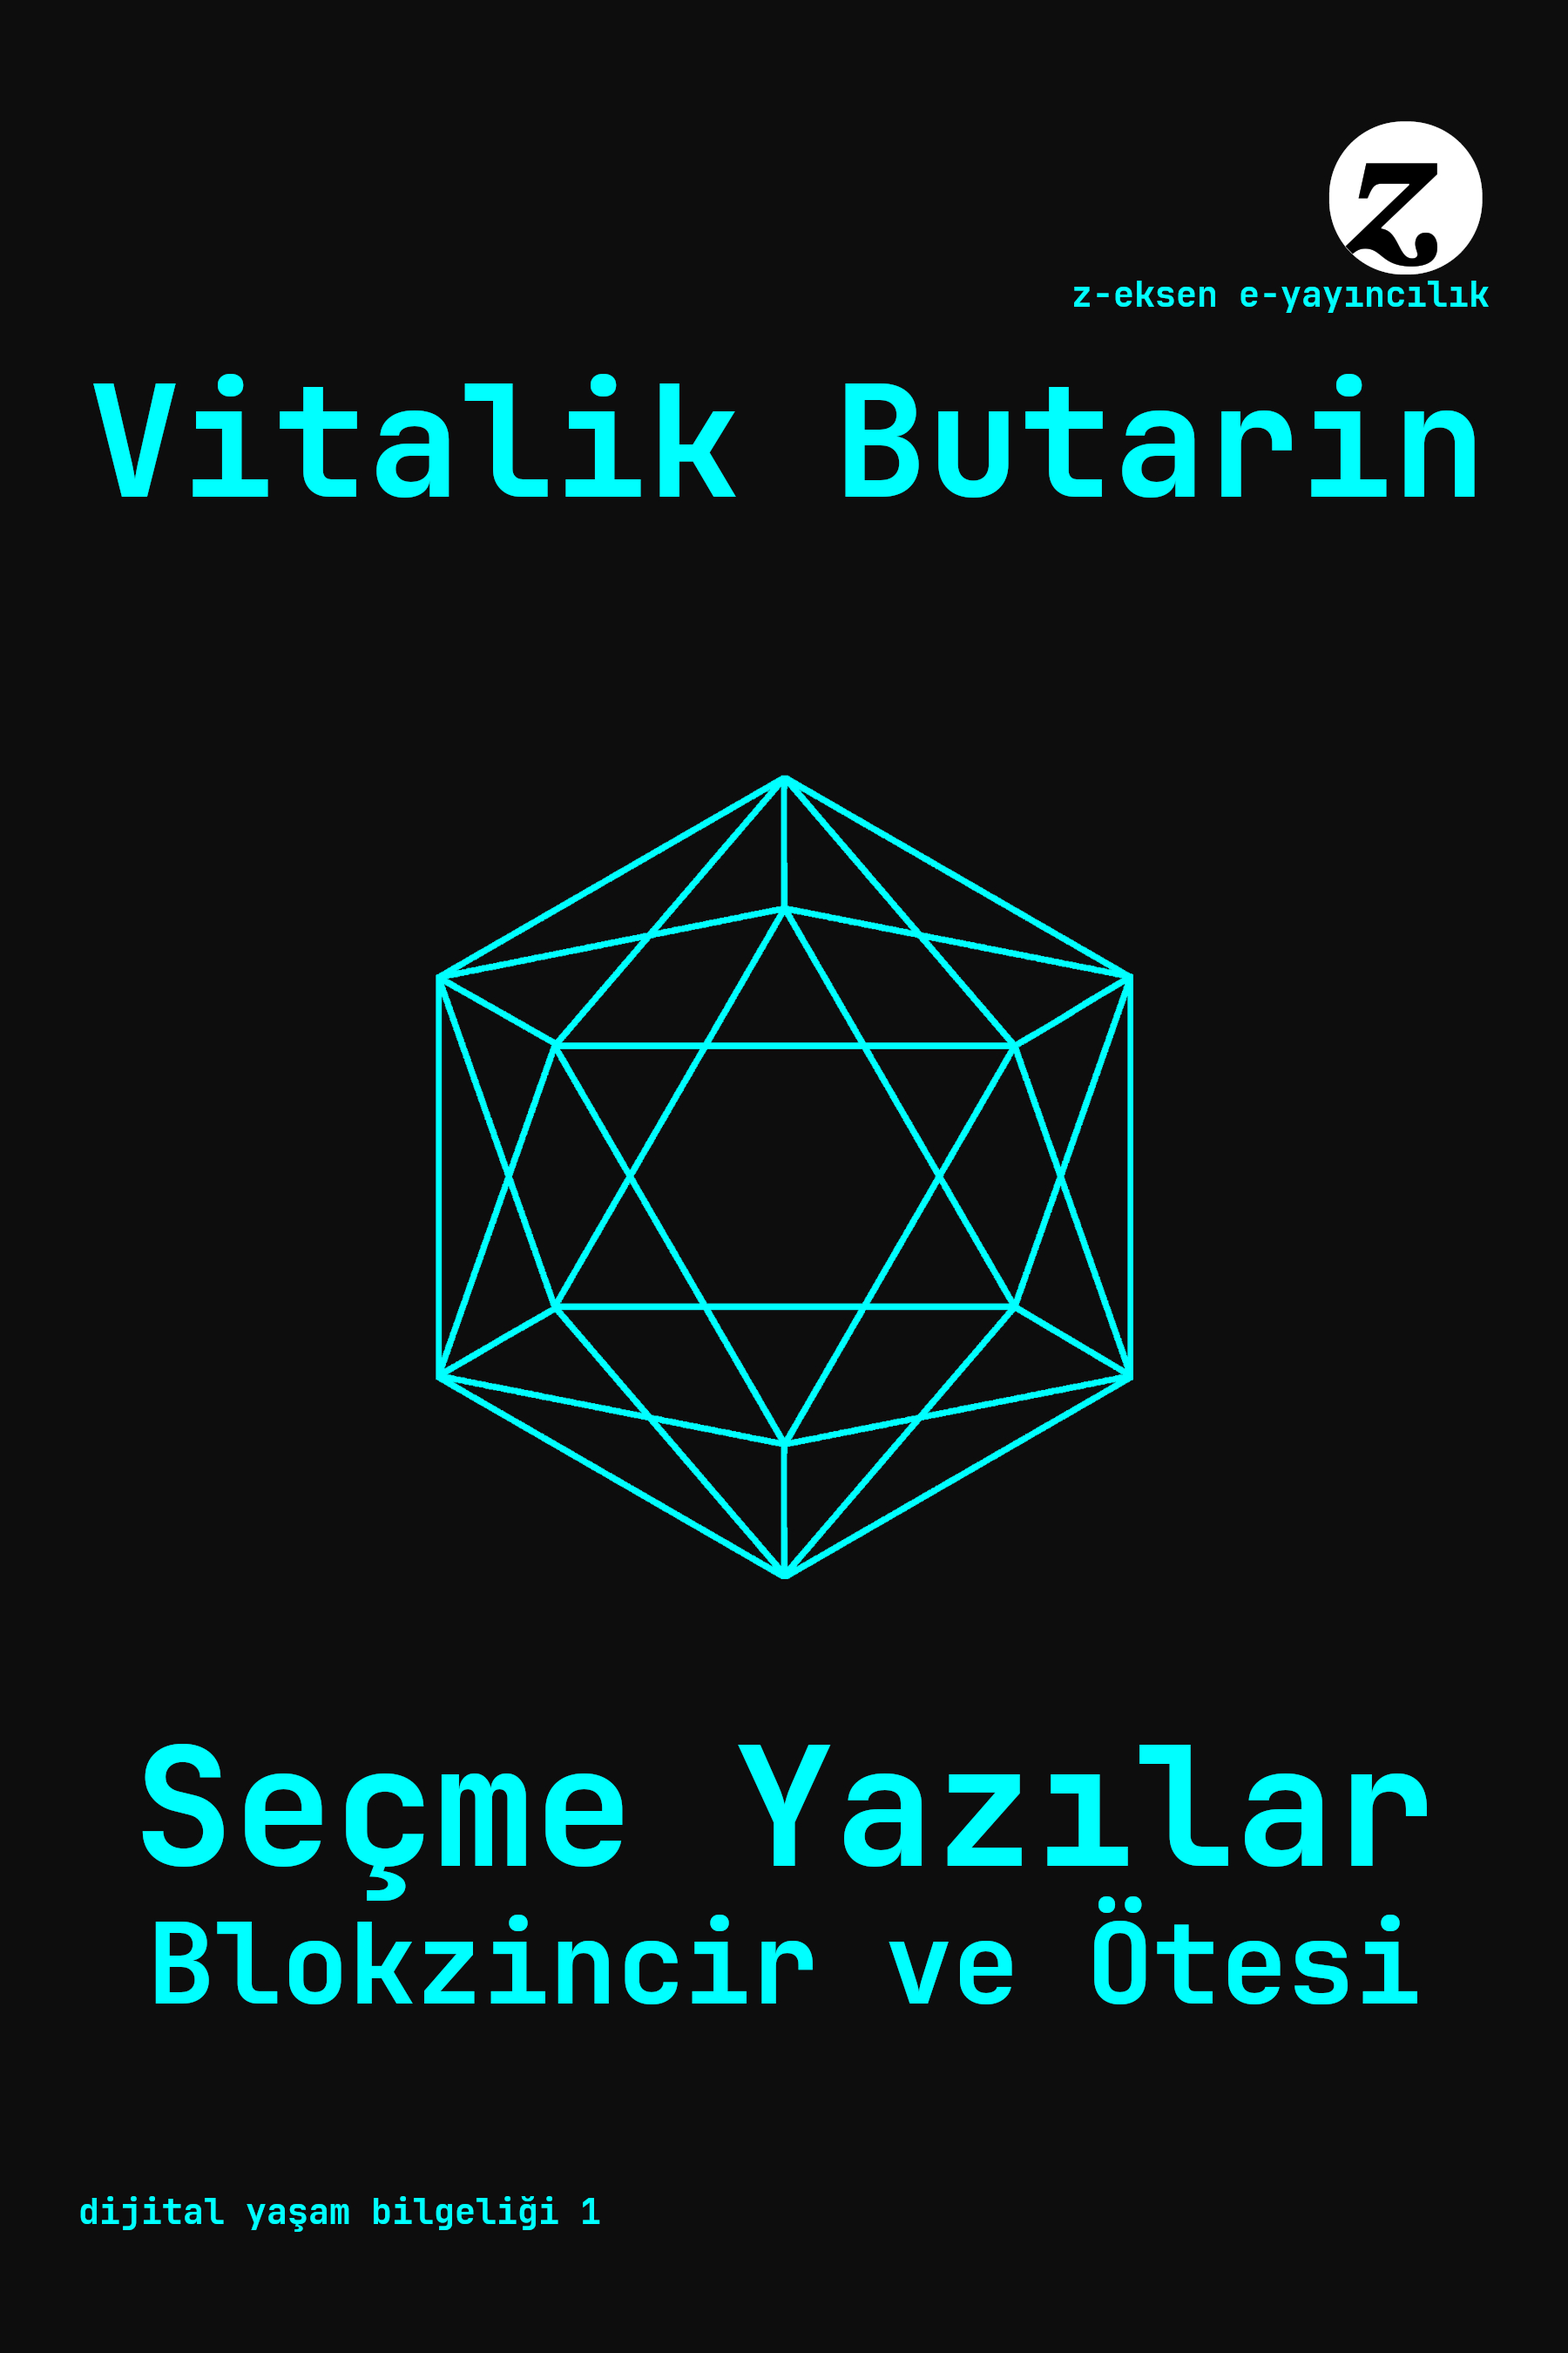
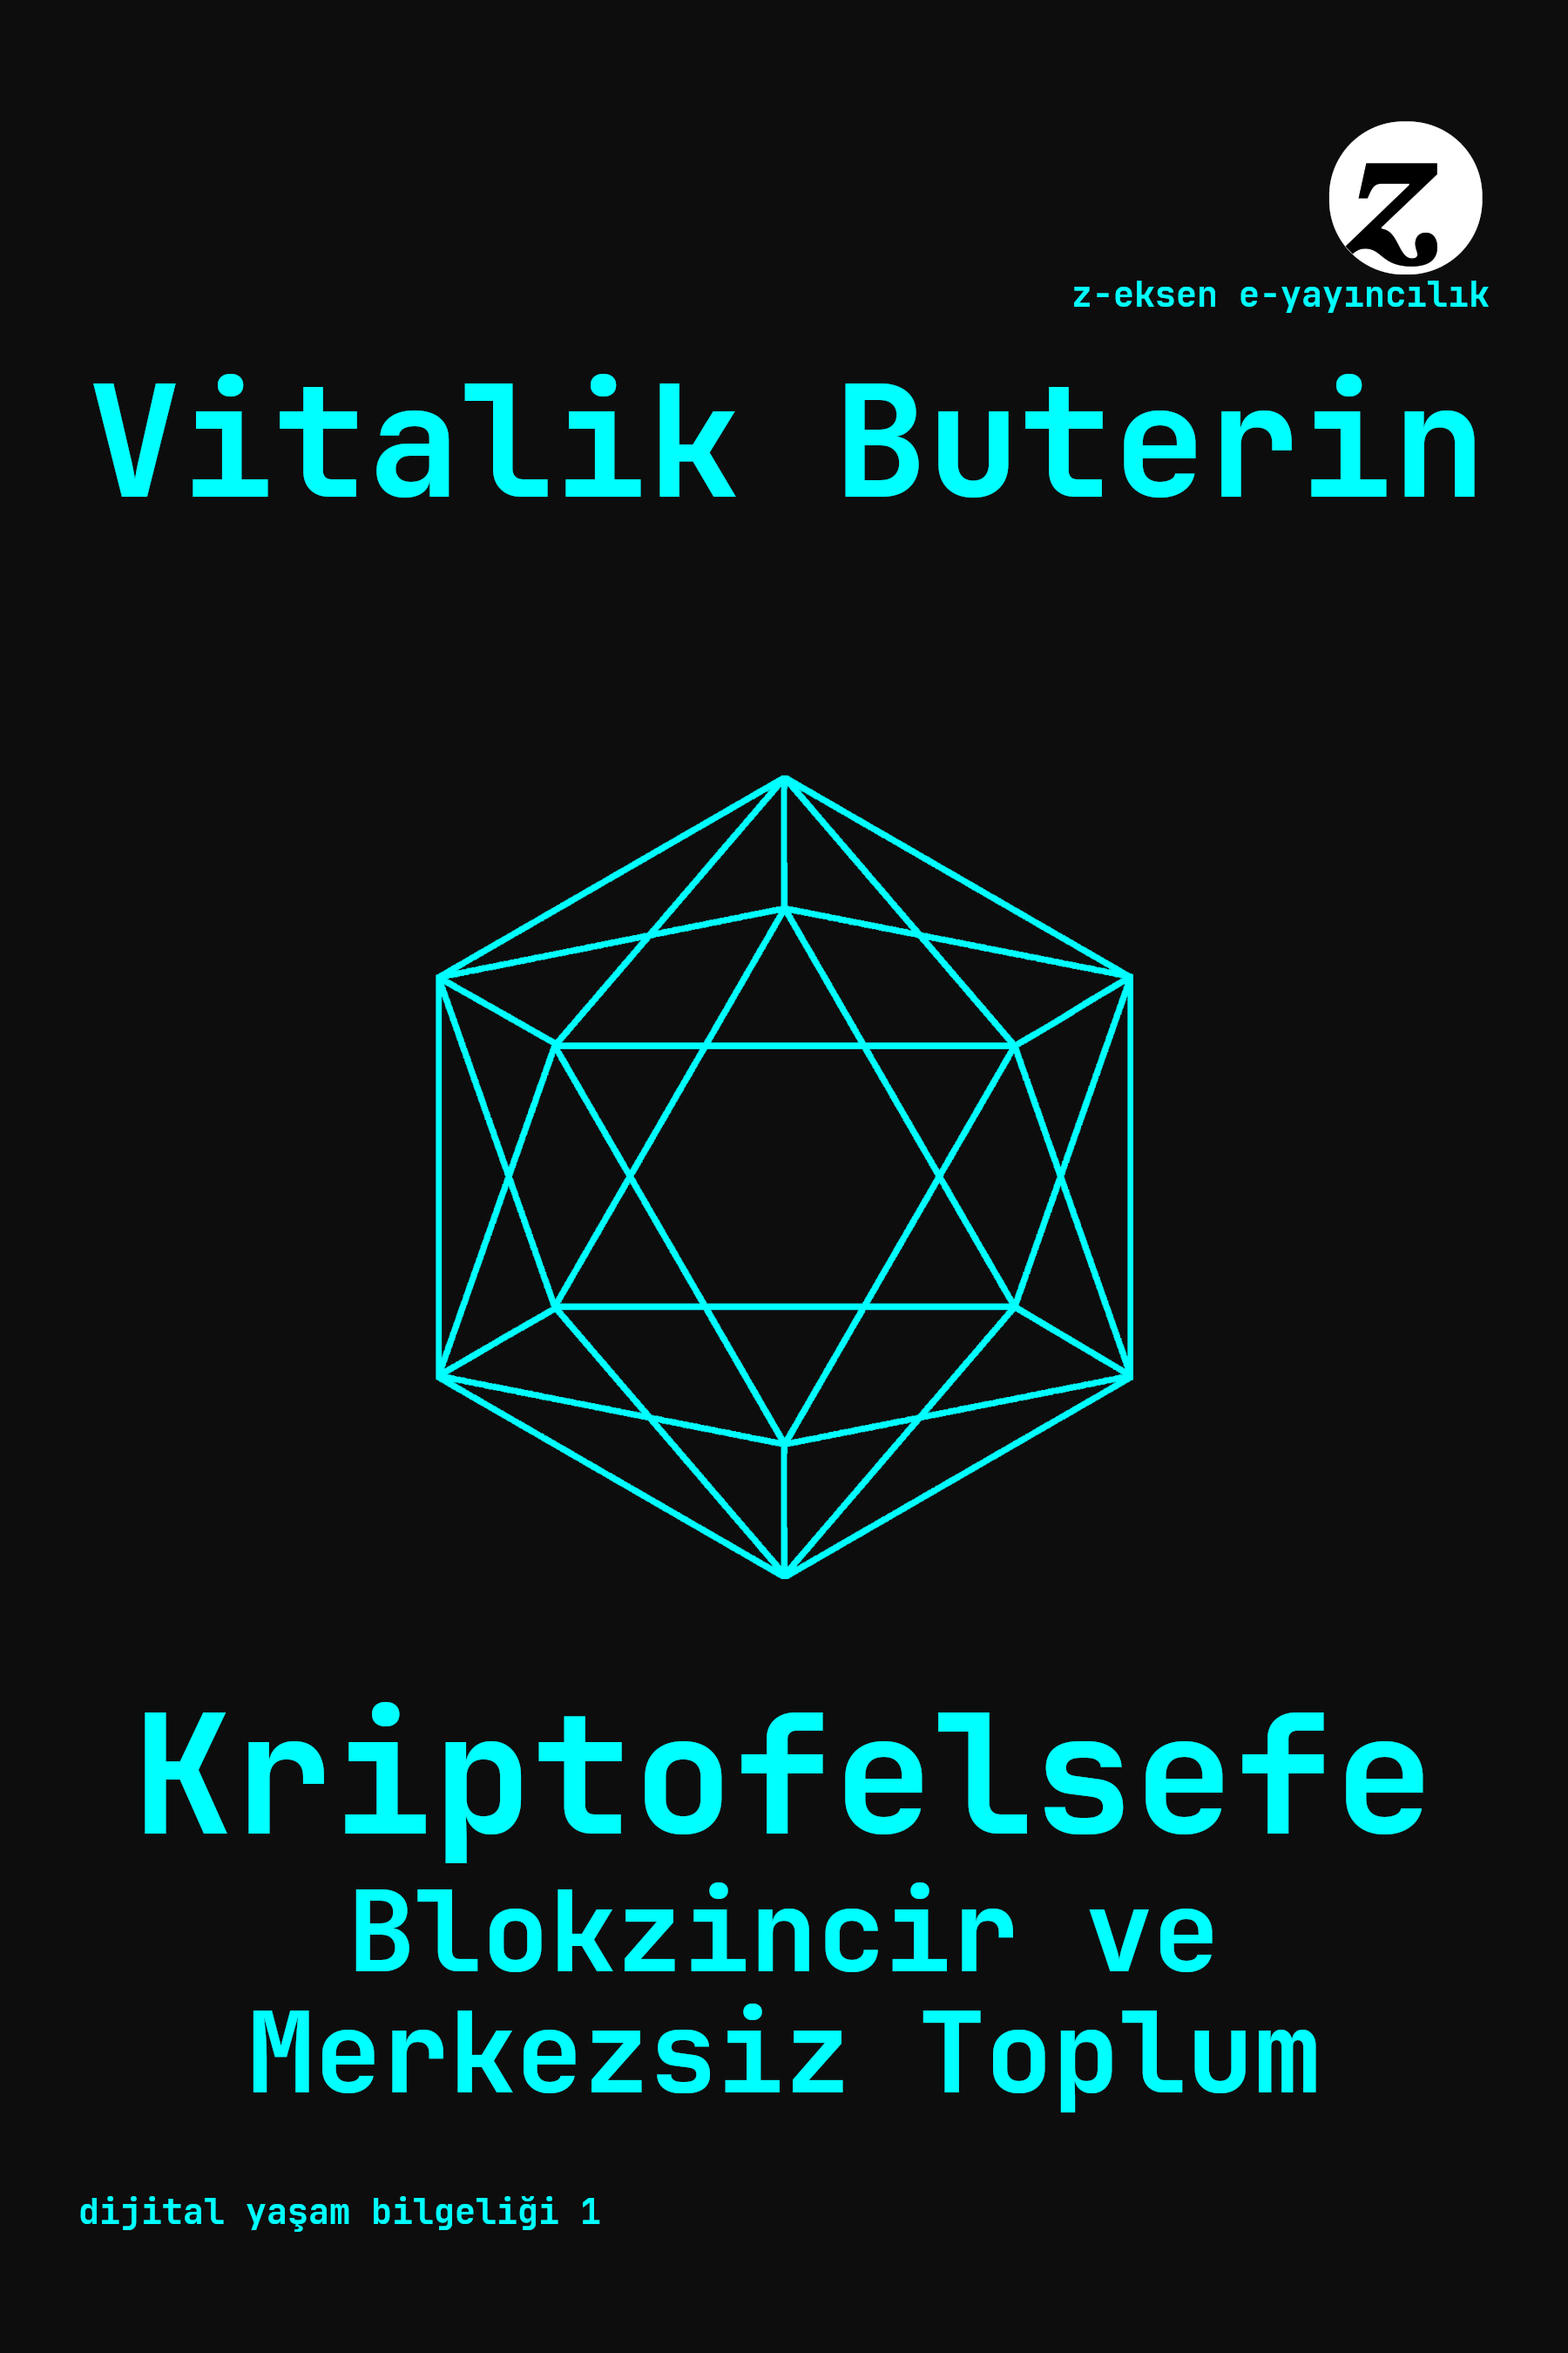
feat: update Vitalik book title and cover, add changelog

Changed region(s): [[0.0933, 0.7156, 0.9333, 0.9022], [0.7156, 0.1867, 0.7778, 0.2178]]

diff --git a/CHANGELOG.md b/CHANGELOG.md
@@ -1,5 +1,8 @@
 # z-eksen e-yayıncılık Değişiklik Kayıtları (Changelog)
 
+## [2026-03-12]
+- Vitalik Buterin'in kitap adı ve kapak görseli (`public/images/vitalik-cover.jpg` ve `src/content/books/vitalik-secmeler.md`) yenilendi.
+
 ## [2026-03-11]
 - **Manifesto ve Tipografi Güncellemesi**: Manifesto sayfasına ekibin "çeviri ve editörlük yaklaşımımız" vizyonu eklendi, yeni başlık sayfa tasarımına uyumlu olarak ortalandı. Okunabilirliği maksimize etmek için site genelindeki temel metin boyutu masaüstünde ve mobilde 1.2 kat (oranında) artırıldı, metin ağırlığı `600` (yarı kalın) seviyesine çekildi.
 - Gelişmiş Tarayıcı Optimizasyonu: Fontların sayfa açılışında yarattığı FOUT (Flash of Unstyled Text) sıçramasını engellemek adına CSS `font-display` özelliği `swap` yerine `optional` olarak düzenlendi, ilk yüklemedeki metin "zıplaması" izole edildi.

diff --git a/src/content/books/vitalik-secmeler.md b/src/content/books/vitalik-secmeler.md
@@ -1,5 +1,5 @@
 ---
-title: "Seçme Yazılar: Blokzincir ve Ötesi"
+title: "Kriptofelsefe: Blokzincir ve Merkezsiz Toplum"
 author: "Vitalik Buterin"
 description: "Ethereum kurucusu Vitalik Buterin'in dijital yönetişim, merkeziyetsizlik felsefesi ve açık kaynak etiği üzerine yazdığı makalelerden derlenen özel bir seçki."
 price: 150
